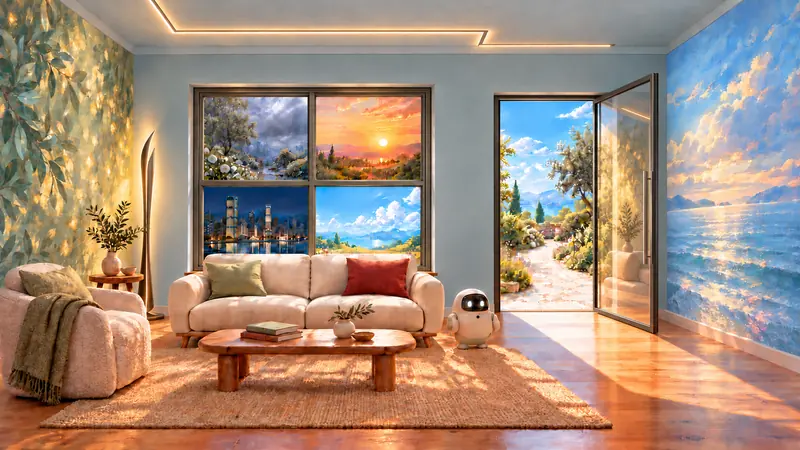
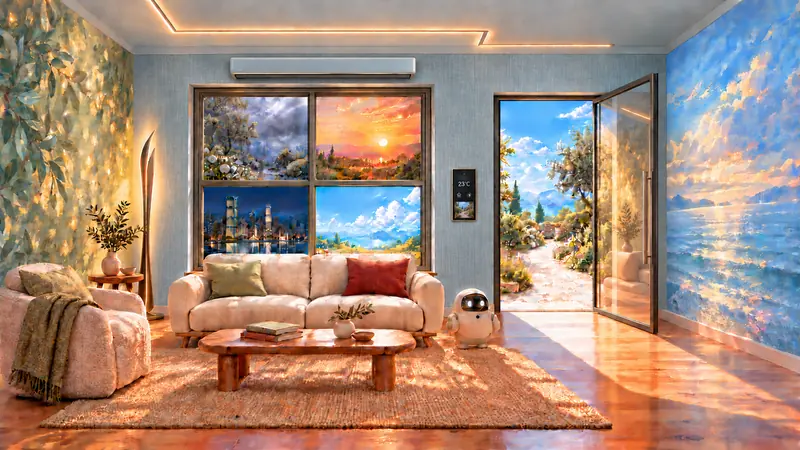
feat: finish smart-home room art for AI Lab and gallery

diff --git a/public/gallery/pieces.js b/public/gallery/pieces.js
@@ -52,9 +52,9 @@ export const PIECES = [
     id: "ai-lab-digital-room", date: "2026-10-21", frame: "plain", width: 1024, height: 576,
     image: "assets/ai-lab-digital-room.webp", imageSmall: "assets/ai-lab-digital-room-mobile.webp", thumbnail: "assets/ai-lab-digital-room-thumb.webp",
     title: { zh: "當牆也有了風景", en: "When Walls Hold a View" },
-    alt: { zh: "霧藍色客廳裡，四格窗各有不同風景；兩側牆面像數位壁紙，玻璃門通向花園，機器人站在沙發旁。", en: "In a mist-blue room, each windowpane opens onto a different view; the side walls resemble digital wallpaper, a glass door leads to a garden, and a small robot stands beside the sofa." },
+    alt: { zh: "霧藍織紋壁紙的客廳裡，四格窗各有不同風景；窗上方是薄型冷暖氣機，窗與花園門之間有顯示 23°C 的控制面板，機器人站在沙發旁。", en: "In a mist-blue textile-wallpapered room, each windowpane has a different view. A slim heating and cooling unit sits above the window, a 23°C control panel between window and garden door, and a robot beside the sofa." },
     caption: { zh: "窗外四景保留著，牆面也加入新的想像。房間沒有離開日常，只是多了一點可變換的可能。", en: "Four views remain beyond the window while the walls offer another imagined layer. It is still an everyday room, with room for change." },
-    made: { zh: "Paul 保留四格窗的構想，逐步指定家具、畫家筆觸、數位牆、霧藍色與科技燈，再將門窗調整為細金屬框。Codex 用 ImageGen 逐版修整；整幅畫是概念插畫。", en: "Paul kept the four-window idea and directed the furnishings, painterly texture, digital walls, mist-blue colour and lighting, then refined the metal-framed door and window. Codex iterated with ImageGen; this is a concept illustration." },
+    made: { zh: "Paul 保留四格窗，逐步指定家具、數位牆、細金屬門窗框、智能面板、薄型冷暖氣機與正面的霧藍織紋壁紙。Codex 用 ImageGen 逐版修整；整幅畫是概念插畫。", en: "Paul kept the four-window idea and directed the furnishings, digital walls, fine metal frames, smart panel, slim climate unit and mist-blue textile wallpaper. Codex iterated with ImageGen; this is a concept illustration." },
   },
   {
     id: "ai-lab-open-horizon", date: "2026-10-21", frame: "plain", width: 1024, height: 576,

diff --git a/tests/ai-lab.spec.js b/tests/ai-lab.spec.js
@@ -132,6 +132,21 @@ test("spirit: zh and en have the same blocks, paragraphs and links", () => {
   }
 });
 
+for (const width of [390, 1440]) {
+  for (const lang of ["zh", "en"]) {
+    test(`spirit illustration ${lang} ${width}: final room asset loads`, async ({ page }) => {
+      await page.setViewportSize({ width, height: width === 390 ? 844 : 900 });
+      await page.goto(`/ai-lab/?lang=${lang}`);
+      const image = page.locator("#spirit-img");
+      await image.scrollIntoViewIfNeeded();
+      await expect(image).toHaveAttribute("alt", SPIRIT[lang].open.alt);
+      await expect.poll(() => image.evaluate((el) => el.complete && el.naturalWidth > 0)).toBe(true);
+      expect(await image.evaluate((el) => el.currentSrc)).toContain(`ailab-digital-room-${width === 390 ? "mobile" : "desktop"}.webp`);
+      expect(await page.evaluate(() => document.documentElement.scrollWidth)).toBeLessThanOrEqual(width);
+    });
+  }
+}
+
 test("deeper: zh and en match, and the measurements behave as described", () => {
   const keys = (o) => Object.keys(o).sort();
   expect(keys(DEEP.zh)).toEqual(keys(DEEP.en));

diff --git a/public/ai-lab/spirit.js b/public/ai-lab/spirit.js
@@ -6,7 +6,7 @@ export const SPIRIT = {
     open: {
       kicker: "AI LAB 的初衷",
       title: "和 AI 一起推開一扇門。",
-      alt: "明亮的工作空間敞開大片落地門，望向海灣、城市與遠山。桌上放著筆電和書，小機器人站在門邊。",
+      alt: "霧藍織紋壁紙的客廳裡，四格窗呈現不同風景；窗上方有薄型冷暖氣機，窗與玻璃門之間有智能面板，小機器人站在沙發旁。",
       blocks: [
         {
           h: "一扇門",
@@ -75,7 +75,7 @@ export const SPIRIT = {
     open: {
       kicker: "WHY AI LAB",
       title: "Open doors, together with AI.",
-      alt: "A bright workspace opens through large glass doors onto a bay, a city and distant mountains. A laptop and books sit on the table, with a small robot by the doorway.",
+      alt: "A mist-blue textile-wallpapered living room has four different views through the window, a slim climate unit above it, a smart panel by the glass door, and a small robot beside the sofa.",
       blocks: [
         {
           h: "A door",

diff --git a/public/ai-lab/index.html b/public/ai-lab/index.html
@@ -56,8 +56,8 @@
       <h2 id="spirit-title"></h2>
       <figure class="spirit-fig">
         <picture>
-          <source media="(max-width: 640px)" srcset="ailab-open-horizon-mobile.webp" width="780" height="1100" />
-          <img id="spirit-img" src="ailab-open-horizon-desktop.webp" width="1600" height="900" alt="" loading="lazy" decoding="async" />
+          <source media="(max-width: 640px)" srcset="ailab-digital-room-mobile.webp" width="780" height="1100" />
+          <img id="spirit-img" src="ailab-digital-room-desktop.webp" width="1600" height="900" alt="" loading="lazy" decoding="async" />
         </picture>
       </figure>
       <div class="spirit" id="spirit-body"></div>
